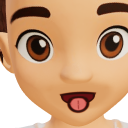
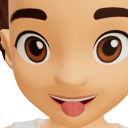
3D-forsøg: munde med rigtige læber, tænder og tunge
Alle munde tegnet om efter appens stil: bløde lyserøde læber med fylde, overtænder, en naturlig tunge. Området om munden er ikke længere mørkere end resten af ansigtet.

diff --git a/3d-forsoeg/index.html b/3d-forsoeg/index.html
@@ -275,10 +275,20 @@ function setupBrows(body) {
         if (rr < 1.5) list.push(i, e, rr); else if (rr < 1.9) for (let m = 0; m < 3; m++) ring[e][m] += N[i * 3 + m]; }); }
     S.ring = ring.map(r => new THREE.Vector3(...r).normalize()); S.verts = new Float32Array(list); S.normals = Float32Array.from(list.filter((_, j) => j % 3 === 0).flatMap(i => [N[i * 3], N[i * 3 + 1], N[i * 3 + 2]])); }
   // (the smile is shaped in the face too, a soft crease that showed under a new mouth: lit smooth the same way)
-  const Mo = tex.mouth; if (Mo) { const N = geo.attributes.normal.array, list = [], ring = [0, 0, 0];
+  // (each point's way out the average of all within a fifth of the eyes' distance, the nearer the more - one way out for
+  // the whole oval, the ring's, tilted it all down and left it darker than the face round it)
+  const Mo = tex.mouth; if (Mo) { const N = geo.attributes.normal.array, list = [], near = [];
     for (let i = 0; i < n; i++) { const X = (P[i * 3] - cx) / apart, Y = (P[i * 3 + 1] - cy) / apart; if (P[i * 3 + 2] < cz - .4 * apart) continue;
-      const rr = Math.hypot(X / Mo.rx, (Y - Mo.my) / Mo.ry); if (rr < 1) list.push(i, rr); else if (rr < 1.4) for (let m = 0; m < 3; m++) ring[m] += N[i * 3 + m]; }
-    Mo.ring = new THREE.Vector3(...ring).normalize(); Mo.verts = new Float32Array(list); Mo.normals = Float32Array.from(list.filter((_, j) => j % 2 === 0).flatMap(i => [N[i * 3], N[i * 3 + 1], N[i * 3 + 2]])); }
+      const rr = Math.hypot(X / Mo.rx, (Y - Mo.my) / Mo.ry); if (rr < 1) list.push(i, rr); if (rr < 1.8) near.push(i); }
+    const r = .2 * apart, cell = new Map(), key = (x, y, z) => `${Math.floor(x / r)},${Math.floor(y / r)},${Math.floor(z / r)}`;
+    for (const i of near) { const k = key(P[i * 3], P[i * 3 + 1], P[i * 3 + 2]); if (!cell.has(k)) cell.set(k, []); cell.get(k).push(i); }
+    Mo.smooth = new Float32Array(list.length / 2 * 3);
+    for (let j = 0; j < list.length; j += 2) { const i = list[j], x = P[i * 3], y = P[i * 3 + 1], z = P[i * 3 + 2], v = [0, 0, 0], gx = Math.floor(x / r), gy = Math.floor(y / r), gz = Math.floor(z / r);
+      for (let a = -1; a <= 1; a++) for (let b = -1; b <= 1; b++) for (let c = -1; c <= 1; c++) for (const q of cell.get(`${gx + a},${gy + b},${gz + c}`) || []) {
+        const d2 = ((P[q * 3] - x) ** 2 + (P[q * 3 + 1] - y) ** 2 + (P[q * 3 + 2] - z) ** 2) / (r * r); if (d2 > 1) continue; const wq = 1 - d2;
+        for (let m = 0; m < 3; m++) v[m] += N[q * 3 + m] * wq; }
+      const l = Math.hypot(...v) || 1; Mo.smooth.set(v.map(c => c / l), j / 2 * 3); }
+    Mo.verts = new Float32Array(list); Mo.normals = Float32Array.from(list.filter((_, j) => j % 2 === 0).flatMap(i => [N[i * 3], N[i * 3 + 1], N[i * 3 + 2]])); }
   // (the old brows: the hair's brown above the eyes - from now on a part of their own - and how they lie, side by side
   // folded together: in 24 strips across, from between the eyes outwards, how high their middle is and how thick)
   const N = 24, top = new Float32Array(N).fill(-9), low = new Float32Array(N).fill(9), zone = new Set();
@@ -460,11 +470,15 @@ function drawEyes(o) {
       put(i, tex.colours[PARTS.eyes] || E.colour, 1, cov(sd * E.r)); put(i, dark, 1, cov((.07 - Math.abs(sd)) * E.r)); } } }
 // ---- the mouth: the figure's own smile, or drawn anew in its place, as the eyes are ----
 // (the smile is painted faintly - a soft dark line and some shade on the lips: measured from the front, it is painted
-// over in the skin round it, in an oval half as wide again, and the new mouth drawn there: Neutral a straight line,
-// Trist a frown, Grin a wide open smile with teeth, Tunge an open smile with the tongue out, Åh a round open mouth,
-// Kys puckered lips)
-const MOUTHS = [['mund-smil', 'Smil'], ['mund-neutral', 'Neutral', { line: 0 }], ['mund-grin', 'Grin', { open: 'grin' }],
-  ['mund-tunge', 'Tunge', { open: 'tongue' }], ['mund-o', 'Åh', { o: true }], ['mund-kys', 'Kys', { kiss: true }], ['mund-trist', 'Trist', { line: 1 }]];
+// over in the skin round it, in an oval half as wide again, and the new mouth drawn there, with lips as in the app:
+// soft pink, fuller below, lit from above. Each but Åh and Kys is given by its middle line - mid: how high, and how much
+// its corners rise (a frown: they fall) - its half width hw, how far it opens above and below that line (open), and how
+// thick its upper and lower lips are (lip); Grin and Tunge show upper teeth (teeth) and Grin a tongue lying inside)
+const MOUTHS = [['mund-smil', 'Smil'], ['mund-neutral', 'Neutral', { mid: [.01, .01], hw: .26, open: [0, 0], lip: [.038, .06] }],
+  ['mund-grin', 'Grin', { mid: [-.01, .07], hw: .34, open: [.03, .17], lip: [.026, .042], teeth: .06, tongue: .055 }],
+  ['mund-tunge', 'Tunge', { mid: [0, .04], hw: .28, open: [.02, .09], lip: [.026, .042], teeth: .04, out: true }],
+  ['mund-o', 'Åh', { o: true }], ['mund-kys', 'Kys', { kiss: true }],
+  ['mund-trist', 'Trist', { mid: [.035, -.06], hw: .25, open: [0, 0], lip: [.034, .052] }]];
 let mouthNow = 'mund-smil';
 function setMouth(name) { mouthNow = name; redrawBody(); renderStyles(); }
 function setupMouth(place) {
@@ -500,32 +514,57 @@ function drawMouth(o) {
   const M = tex.mouth, opts = (MOUTHS.find(m => m[0] === mouthNow) || [])[2]; if (!M) return;
   // (its crease lit smooth under a new mouth, as it was under the smile)
   if (M.verts && hairBase) { const A = hairBase.body.geometry.attributes.normal, V = M.verts, v = new THREE.Vector3();
-    for (let j = 0, m = 0; j < V.length; j += 2, m += 3) { v.fromArray(M.normals, m); if (opts) v.lerp(M.ring, Math.min(1, (1 - V[j + 1]) / .3)).normalize(); v.toArray(A.array, V[j] * 3); }
+    const s = new THREE.Vector3();
+    for (let j = 0, m = 0; j < V.length; j += 2, m += 3) { v.fromArray(M.normals, m); if (opts) v.lerp(s.fromArray(M.smooth, m), Math.min(1, (1 - V[j + 1]) / .3)).normalize(); v.toArray(A.array, V[j] * 3); }
     A.needsUpdate = true; }
   if (!opts) return;
-  const T = M.texels, skin = tex.colours[PARTS.skin] || tex.skin, dark = { r: .25, g: .1, b: .08 }, inside = { r: .45, g: .13, b: .14 },
-    teeth = { r: .97, g: .96, b: .93 }, pink = { r: .93, g: .45, b: .5 }, lips = { r: .85, g: .38, b: .42 }, edge = .01;
-  const cov = d => Math.max(0, Math.min(1, d / edge + .5)), put = (i, c, k, a) => { if (a <= 0) return;
+  const T = M.texels, skin = tex.colours[PARTS.skin] || tex.skin, edge = .007;
+  // (the colours: lips a soft pink, a third the skin's own; the mouth's inside a deep red; teeth off-white; the tongue pink)
+  const mix = (a, b, t) => ({ r: a.r * (1 - t) + b.r * t, g: a.g * (1 - t) + b.g * t, b: a.b * (1 - t) + b.b * t });
+  const lipC = mix(skin, { r: .86, g: .4, b: .45 }, .68), seamC = { r: .36, g: .12, b: .12 }, insideC = { r: .36, g: .08, b: .1 },
+    teethC = { r: .98, g: .97, b: .94 }, tongueC = { r: .92, g: .46, b: .5 };
+  const cov = d => Math.max(0, Math.min(1, d / edge + .5)), cl = v => Math.max(0, Math.min(1, v)), put = (i, c, k, a) => { if (a <= 0) return;
     o[i] = o[i] * (1 - a) + Math.min(255, c.r * 255 * k) * a; o[i + 1] = o[i + 1] * (1 - a) + Math.min(255, c.g * 255 * k) * a; o[i + 2] = o[i + 2] * (1 - a) + Math.min(255, c.b * 255 * k) * a; };
-  const { my, mw } = M;
+  // (a lip between its inner edge and its outer: fullest in its middle, a little darker at its rim; the lower one with a
+  // soft light on it, as the app's)
+  const lip = (i, k, d, t, lower, u) => { if (d <= -edge) return;
+    const shade = (lower ? .92 : .84) + .16 * Math.sin(Math.PI * cl(t)) + (lower ? .22 * Math.exp(-(((t - .38) / .16) ** 2)) * Math.exp(-((u / .4) ** 2)) : 0);
+    put(i, lipC, k * shade * (.82 + .18 * cl((1 - t) * 4)), cov(d)); };
+  const { my } = M;
   for (let j = 0; j < T.length; j += 4) { const p = T[j], X = T[j + 1], Y = T[j + 2], k = T[j + 3], i = p * 4;
     // (the old smile painted over in the skin, softly out to the oval's edge)
     put(i, skin, k, Math.min(1, (1 - Math.hypot(X / M.rx, (Y - my) / M.ry)) / .25));
-    if (opts.line !== undefined) { // (a line: straight, or for Trist bent down at its ends)
-      const hw = .62 * mw, u = Math.min(1, Math.abs(X) / hw), yc = my + .02 + opts.line * .08 * (1 - u * u) - opts.line * .03;
-      put(i, dark, 1, cov(.017 * (1 - .4 * u * u) - Math.hypot(Y - yc, Math.max(0, Math.abs(X) - hw)))); }
-    if (opts.open) { // (an open smile: a flat top, a round foot; the dark inside, teeth along the top for Grin, a tongue for Tunge)
-      const hw = (opts.open === 'grin' ? .85 : .65) * mw, deep = opts.open === 'grin' ? .2 : .15, u = X / hw, top = my + .05 - .03 * u * u, foot = top - deep * Math.sqrt(Math.max(0, 1 - u * u));
-      const d = Math.min(top - Y, Y - foot, (1 - Math.abs(u)) * hw * .5);
-      put(i, inside, 1, cov(d));
-      if (opts.open === 'grin') put(i, teeth, 1, cov(d) * cov(Y - (top - .055)));
-      put(i, dark, 1, cov(.014 - Math.abs(d)) * (Math.abs(u) < 1.05 ? 1 : 0));
-      // (the tongue over the lower lip, hanging out below it, with its own outline and a groove down its middle)
-      if (opts.open === 'tongue') { const fy = my + .05 - .15, te = Math.hypot(X / (.55 * hw), (Y - fy) / .1) - 1;
-        if (Y < top - .04) { put(i, pink, 1, cov(-te * .07)); put(i, dark, 1, cov(.012 - Math.abs(te * .07))); put(i, dark, .9, .5 * cov(.006 - Math.abs(X)) * cov(-te * .07 - .02) * cov(fy + .05 - Y)); } } }
-    if (opts.o) { const e = Math.hypot(X / .085, (Y - my + .02) / .11) - 1; put(i, inside, 1, cov(-e * .09)); put(i, dark, 1, cov(.014 - Math.abs(e * .09))); }
-    if (opts.kiss) { const up = Math.hypot(X / .1, (Y - my - .005) / .045) - 1, lo = Math.hypot(X / .105, (Y - my + .065) / .055) - 1, e = Math.min(up, lo);
-      put(i, lips, 1, cov(-e * .05)); put(i, dark, 1, cov(.009 - Math.abs(e * .05)) * .8); put(i, dark, 1, cov(.007 - Math.abs(Y - my + .03)) * cov((.08 - Math.abs(X)))); } } }
+    if (opts.hw) { const u = X / opts.hw, au = Math.abs(u); if (au > 1.12) continue; const s = Math.sqrt(Math.max(0, 1 - u * u));
+      const c = my + opts.mid[0] + opts.mid[1] * u * u, top = c + opts.open[0] * s, bot = c - opts.open[1] * Math.pow(s, 1.3);
+      // (the upper lip's outer edge dips a little in the middle - its bow; the lower lip is fuller)
+      const up = top + opts.lip[0] * Math.pow(s, .7) * (1 - .3 * Math.exp(-((u / .13) ** 2))), lo = bot - opts.lip[1] * Math.pow(s, .8);
+      lip(i, k, Math.min(Y - top, up - Y), (Y - top) / (up - top || 1), false, u);
+      lip(i, k, Math.min(bot - Y, Y - lo), (bot - Y) / (bot - lo || 1), true, u);
+      const open = opts.open[1] > 0;
+      if (open) { const dI = Math.min(top - Y, Y - bot), f = cl((top - Y) / (top - bot || 1));
+        put(i, insideC, .75 + .45 * f, cov(dI));
+        if (opts.teeth) { const tb = top - opts.teeth * Math.pow(s, .6), tooth = Math.abs(((u * 3.2 + .5) % 1 + 1) % 1 - .5);
+          put(i, teethC, k * (.88 + .12 * cl((Y - tb) / opts.teeth)) * (tooth > .46 ? .9 : 1), cov(Math.min(dI, Y - tb))); }
+        if (opts.tongue) { const tt = bot + opts.tongue * s; put(i, tongueC, .9 + .2 * Math.exp(-((u / .5) ** 2)), cov(Math.min(dI, tt - Y))); }
+        put(i, seamC, 1, .55 * cov(.005 - Math.abs(dI)) * (au < 1 ? 1 : 0)); }
+      else { put(i, seamC, 1, cov(.0055 * (1 - .5 * u * u) - Math.abs(Y - c)) * (au < 1 ? 1 : 0)); }
+      // (the corners: a small soft dimple)
+      put(i, seamC, 1, .5 * cov(.009 - Math.hypot(Math.abs(X) - opts.hw, Y - c)));
+      // (Tunge: the tongue out over the lower lip, rounded, a groove down its middle, darker at its rim, lighter on top)
+      if (opts.out) { const ty = c - opts.open[1] - .03, te = Math.hypot(X / .14, (Y - ty) / .11);
+        if (Y < top - .005 && te < 1.08) { put(i, tongueC, .8 + .25 * (1 - te) + .15 * cl((Y - ty) / .11), cov((1 - te) * .1));
+          put(i, { r: .7, g: .28, b: .32 }, 1, .5 * cov(.005 - Math.abs(X)) * cov((1 - te) * .1 - .02) * cov(Y - ty + .06)); } } }
+    // (Åh: a round open mouth, its lips all round - fuller below - the inside dark with the tongue's tip at its foot)
+    if (opts.o) { const cy = my - .03, ei = Math.hypot(X / .07, (Y - cy) / .09), eo = Math.hypot(X / .115, (Y - cy + .008) / (Y > cy ? .13 : .145));
+      // (how far across the lip: 0 at the opening, 1 at its outer edge - ei / eo is the outer edge's size against the inner's)
+      lip(i, k, (1 - eo) * .1, cl((ei - 1) / ((ei / eo - 1) || 1)), Y < cy, X / .1);
+      put(i, insideC, .7 + .4 * cl((cy + .09 - Y) / .18), cov((1 - ei) * .08));
+      put(i, tongueC, .9, cov((1 - ei) * .08) * cov(.045 - Math.hypot(X / 1.4, Y - (cy - .1))));
+      put(i, seamC, 1, .5 * cov(.005 - Math.abs((1 - ei) * .08))); }
+    // (Kys: small puckered lips, both full and round, the bow in the upper one, a short seam between)
+    if (opts.kiss) { const sy = my - .02, ux = X / .13, s = Math.sqrt(Math.max(0, 1 - ux * ux)), up = sy + .06 * Math.pow(s, .6) * (1 - .3 * Math.exp(-((X / .035) ** 2))), lo = sy - .078 * Math.pow(s, .7);
+      if (Math.abs(ux) < 1.05) { lip(i, k, Math.min(Y - sy, up - Y), (Y - sy) / (up - sy || 1), false, ux); lip(i, k, Math.min(sy - Y, Y - lo), (sy - Y) / (sy - lo || 1), true, ux * 1.3);
+        put(i, seamC, 1, .8 * cov(.0045 * s - Math.abs(Y - sy))); } } } }
 // (a shut eye's hollow lit smooth - see setupBrows - and an open one as it was)
 function shutNormals(S, opts) { if (!S.verts || !hairBase) return; const N = hairBase.body.geometry.attributes.normal, A = N.array, V = S.verts, v = new THREE.Vector3();
   for (let j = 0, m = 0; j < V.length; j += 3, m += 3) { const i = V[j], E = S.eyes[V[j + 1]], shut = opts.shut && (!opts.one || E.side > 0);
